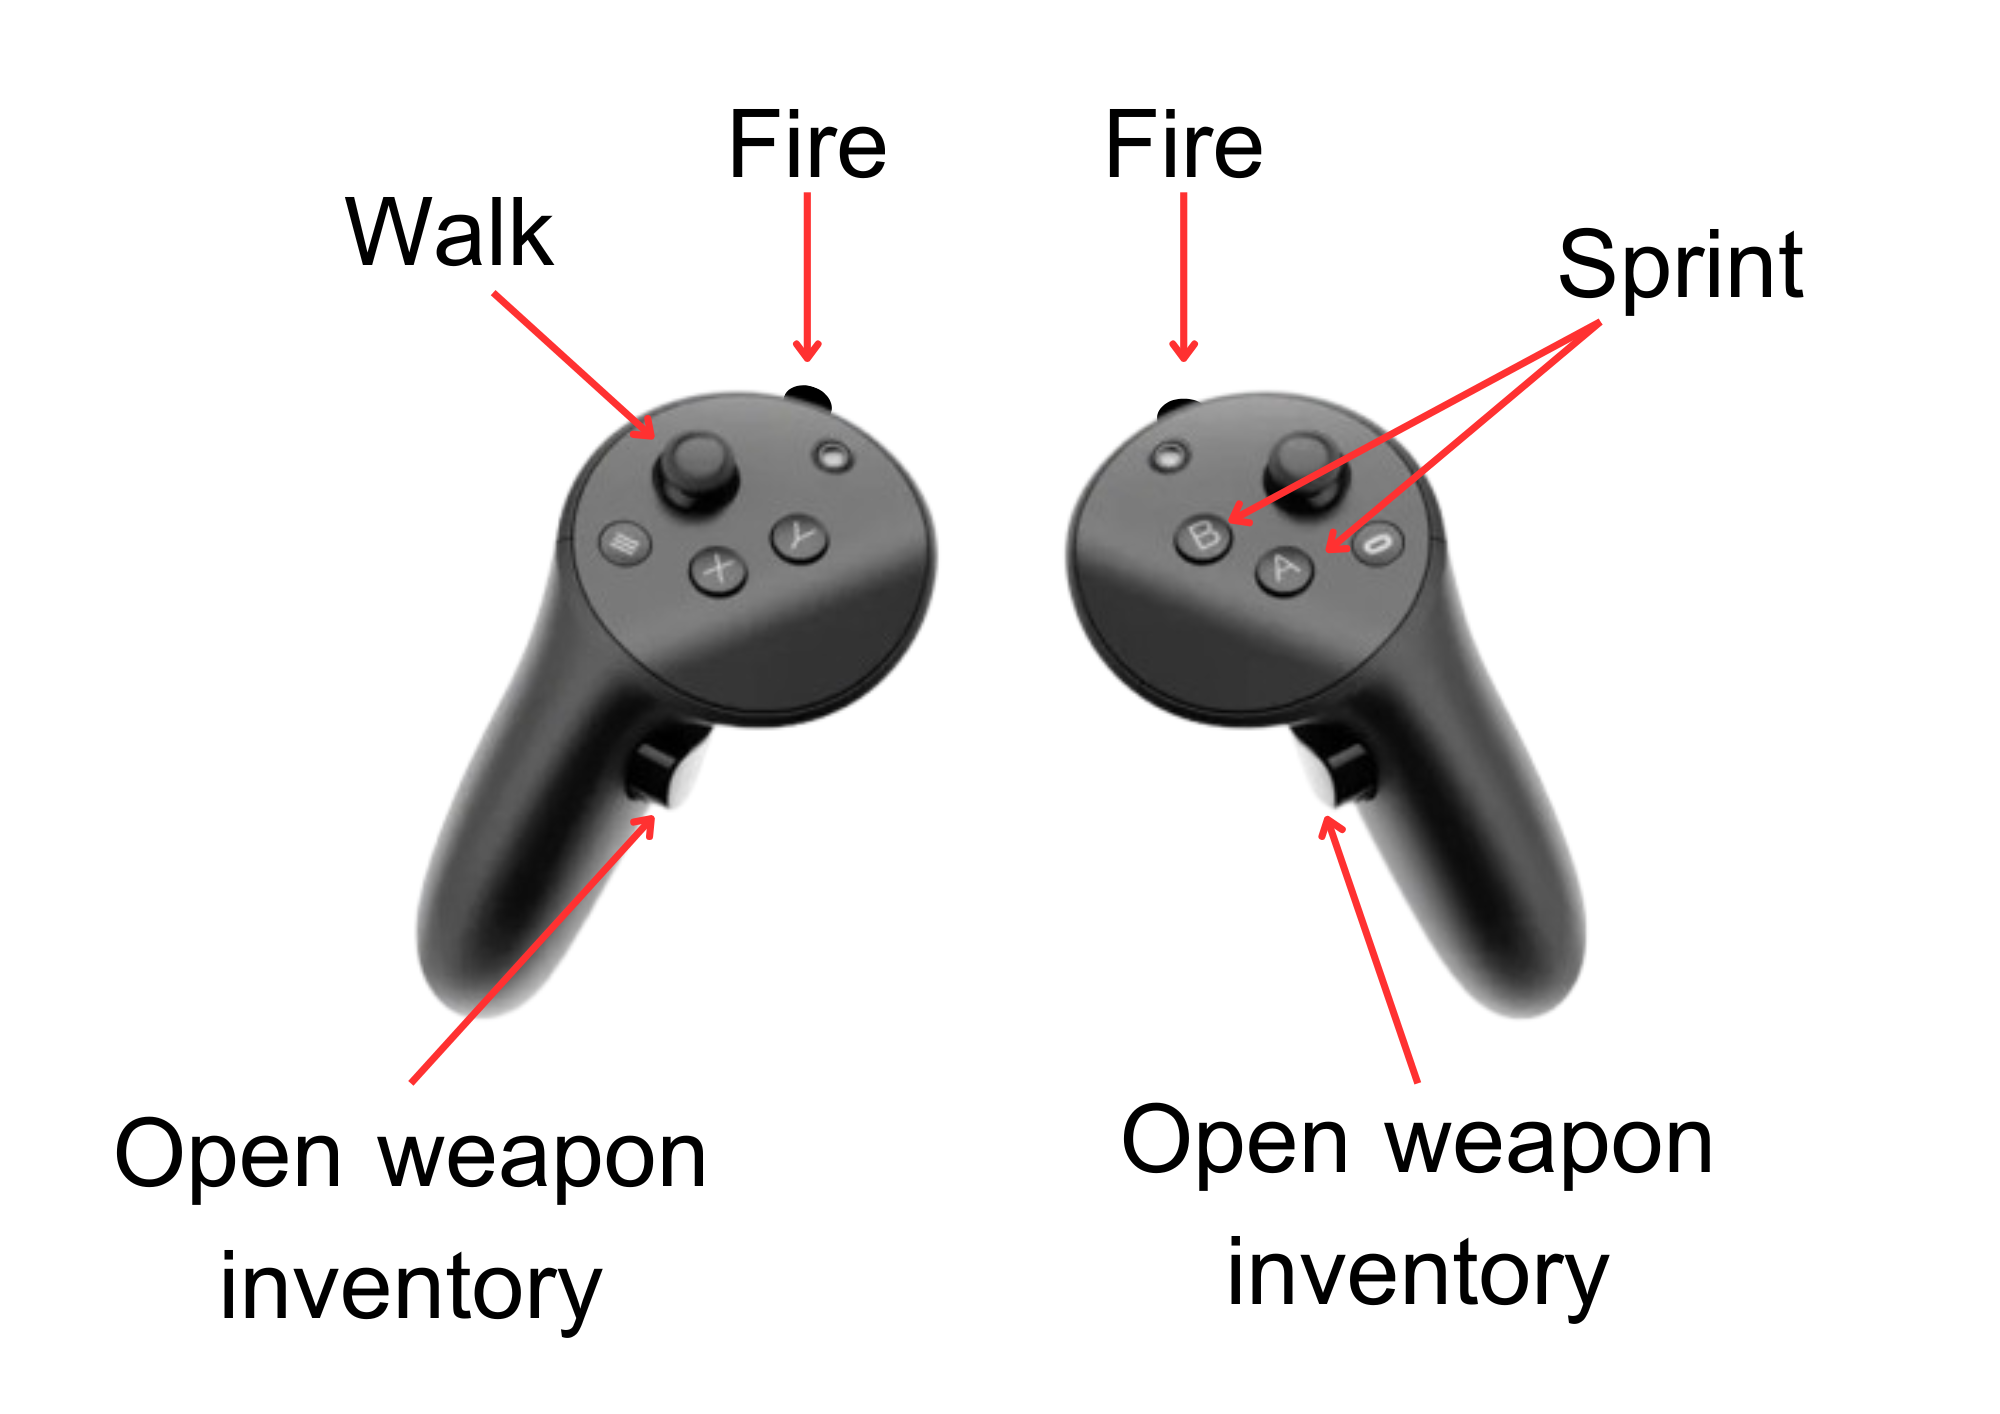
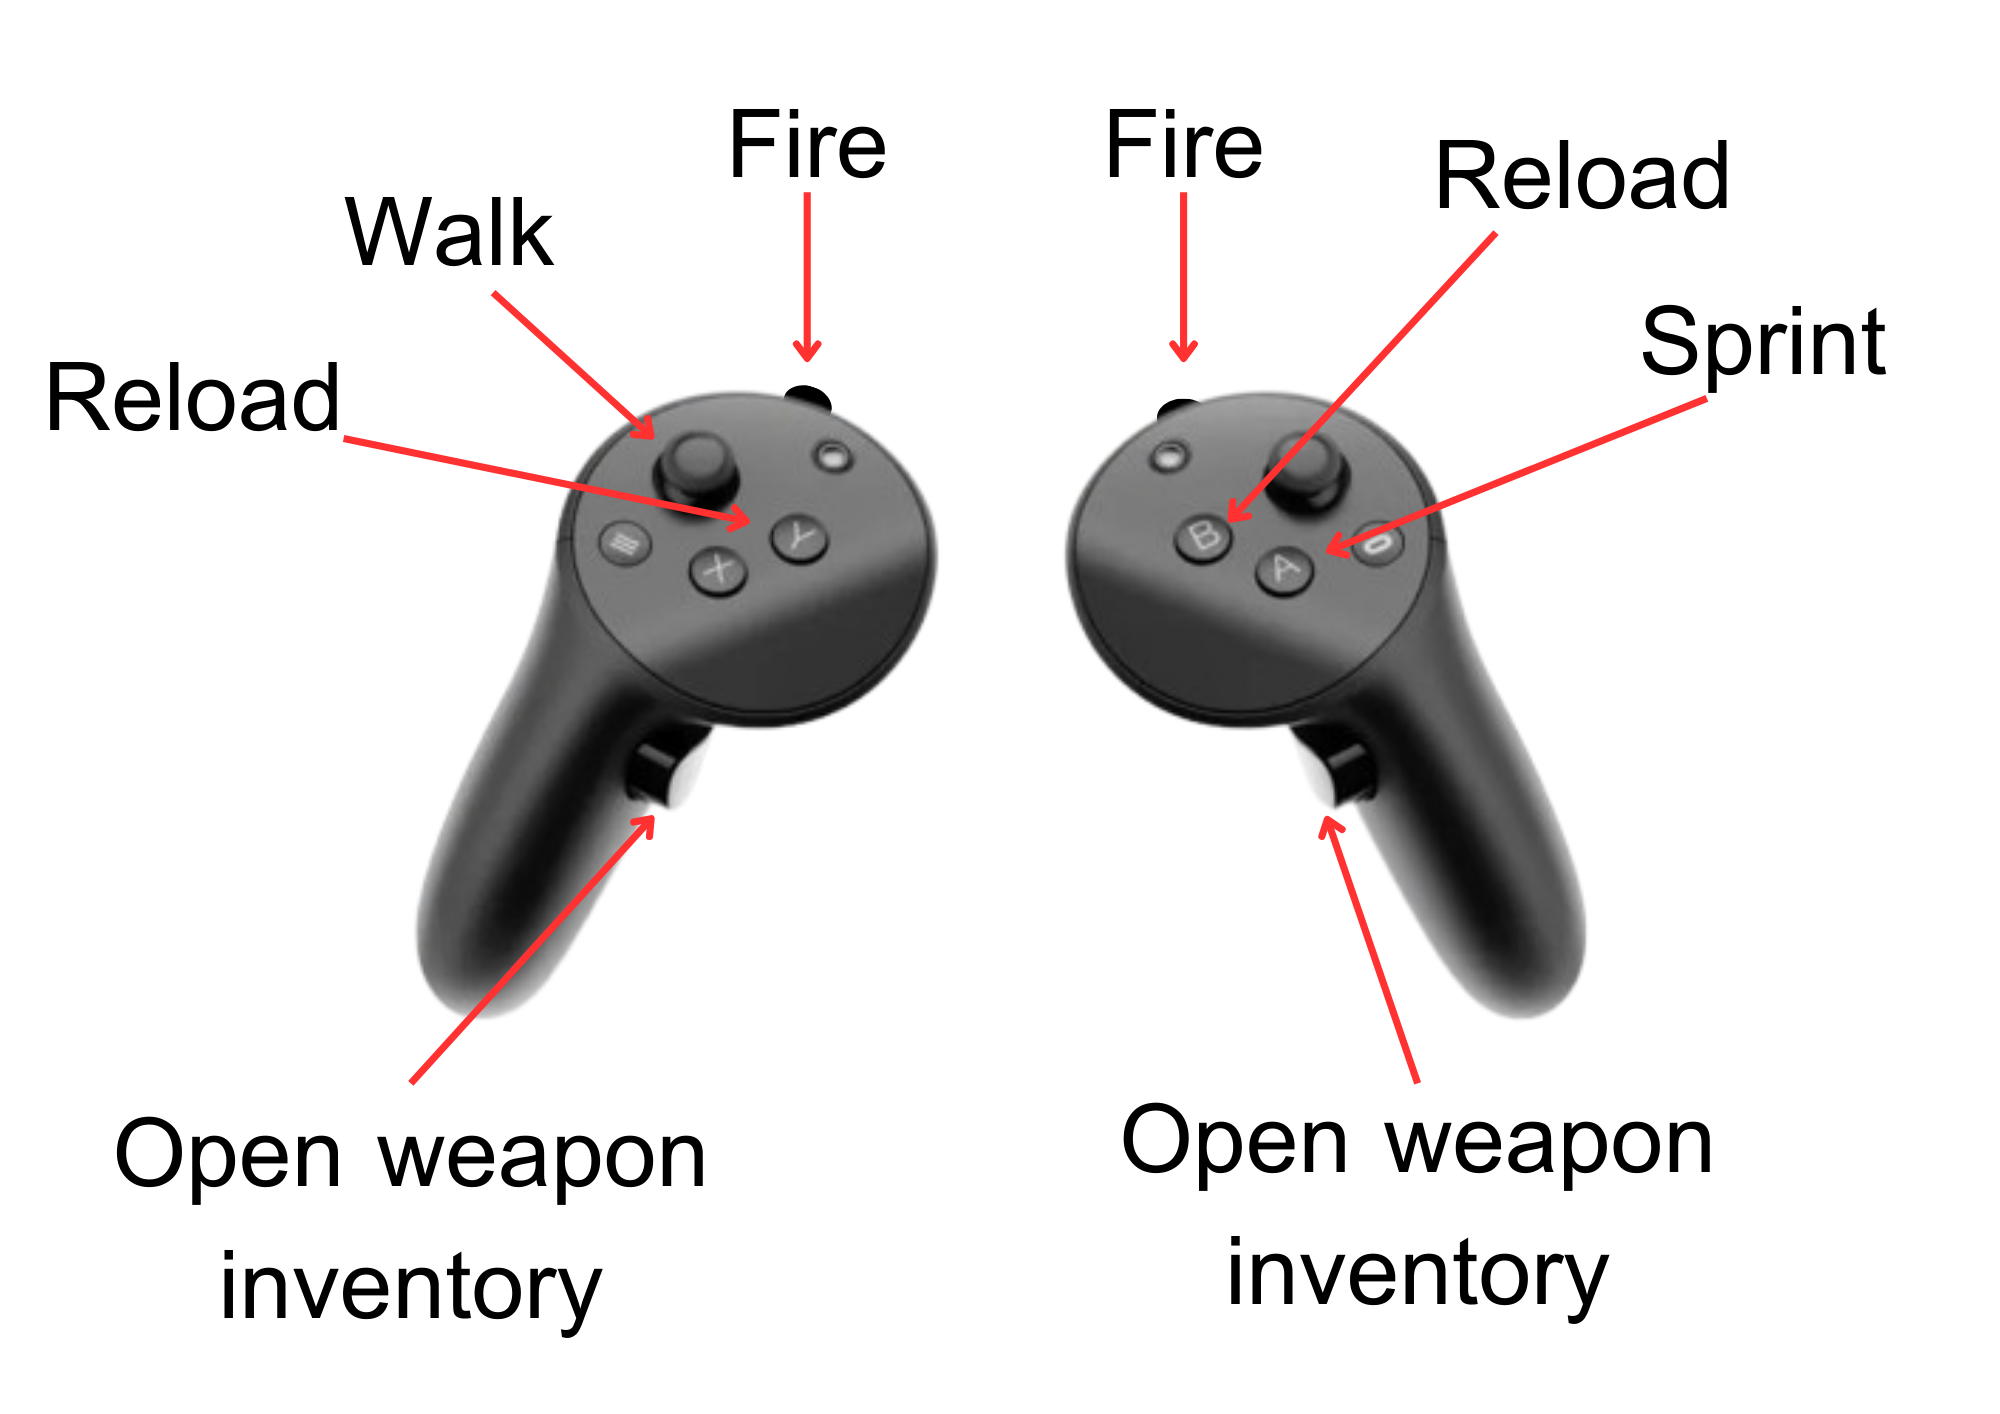
feat: update main menu and tutorial scene

diff --git a/Assets/GateKeeperProject/Scripts/MainMenu.cs b/Assets/GateKeeperProject/Scripts/MainMenu.cs
@@ -29,4 +29,9 @@ public class MainMenuScript : MonoBehaviour
     {
         SceneManager.LoadScene("Main Menu");
     }
+
+    public void Tutorial()
+    {
+        SceneManager.LoadScene("Tutorial");
+    }
 }
